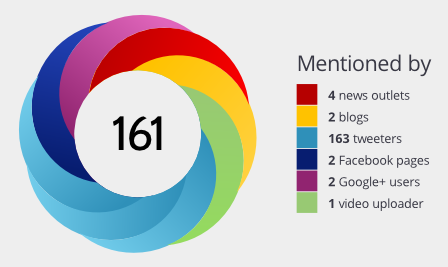
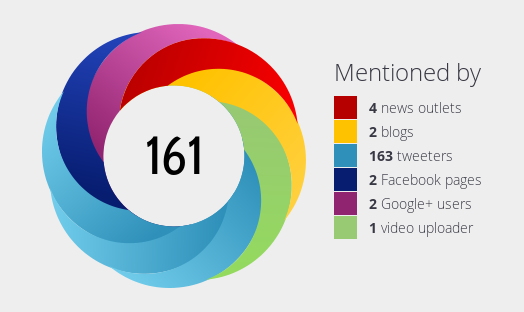
Add ImpactStory illustration.
Closes #3.

diff --git a/how-to-measure-impact.md b/how-to-measure-impact.md
@@ -441,6 +441,21 @@ The code and governance of the service are also open.
 Ideas for further development of the service are invited through a feedback forum,
 and users can vote for the ideas they would like the developers to prioritise.
 
+\marginbox[ht]\framed
+\noindent{}**Example**
+
+\smallskip
+\noindent{}'Mousing over' elements of an ImpactStory profile reveals more information.
+The pop-up for Bik et al.'s 2012 dataset on benthic microbial eukaryote communities
+reveals it has received more Dryad views than 86% of the datasets from that year
+tracked by the service~.^[
+Holly Bik's ImpactStory profile – datasets, URL: <https://impactstory.org/HollyBik/products/datasets>]
+
+\smallskip\centering
+![Holly Bik's datasets as tracked by ImpactStory](impactstory-profile.png)
+
+\endframed\endmarginbox
+
 PLoS Article-Level Metrics
 --------------------------
 
@@ -540,7 +555,7 @@ by linking their PlumX profiles to accounts they have in other systems
 \smallskip
 \noindent{}When Jason Colditz wrote a blog post on Open Access publishing,
 he illustrated it with a flowchart of the publication process that he
-simultaneously deposited in figshare [@colditz2012ppo].
+had deposited in figshare [@colditz2012ppo].
 His institution's PlumX profile tracks interest in the figure.^[
 PlumX profile for the figure 'Publication Process with OA', URL: <https://plu.mx/a/22ogwhQ4i9naHqqVVtbKuB8m1MoJ9sfe83lmONsd_u0>]
 
